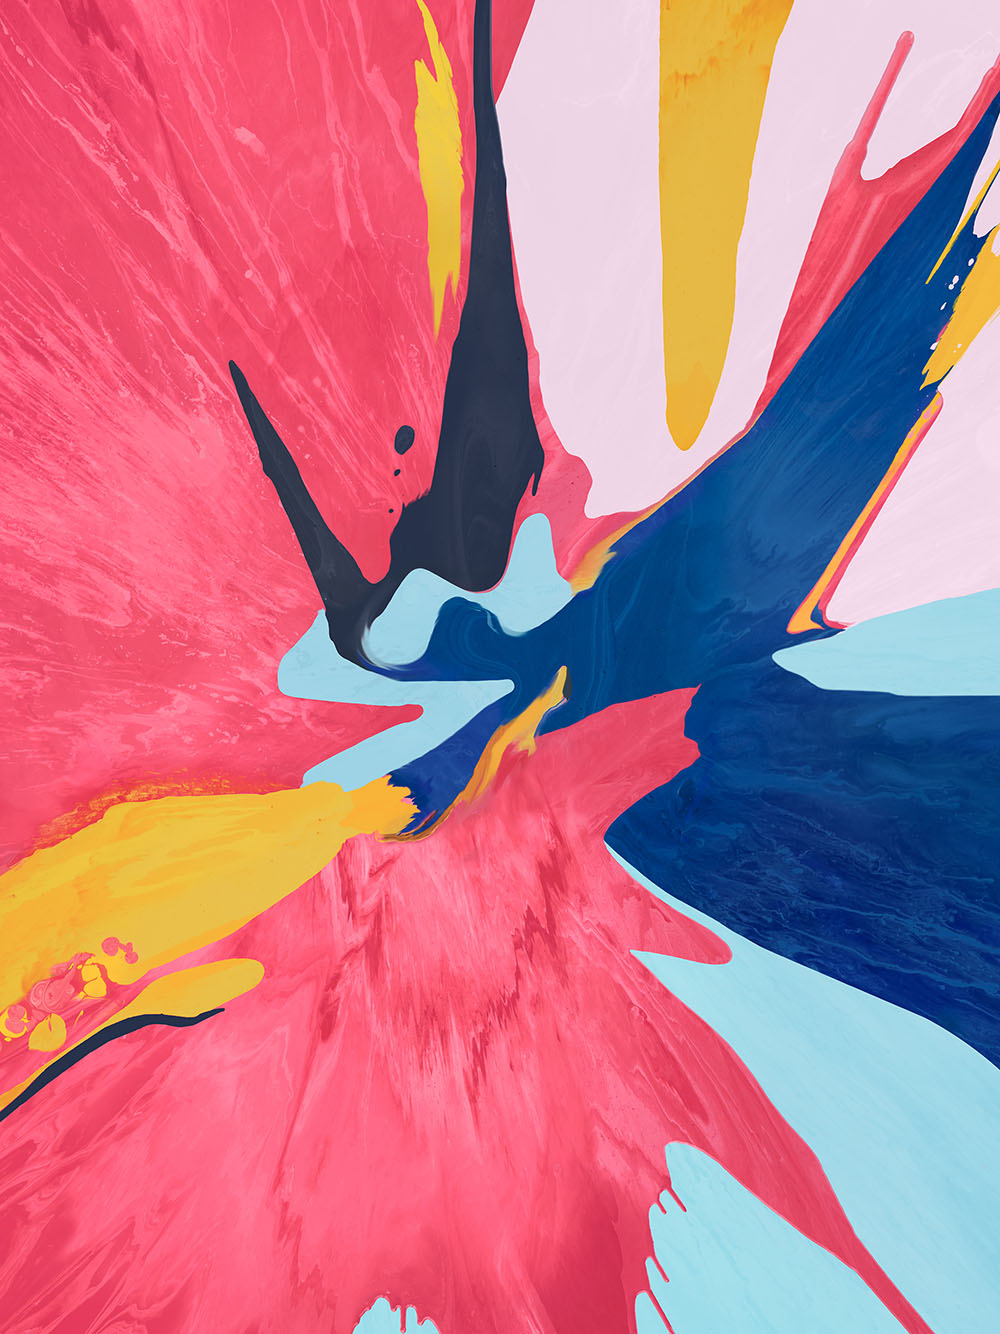
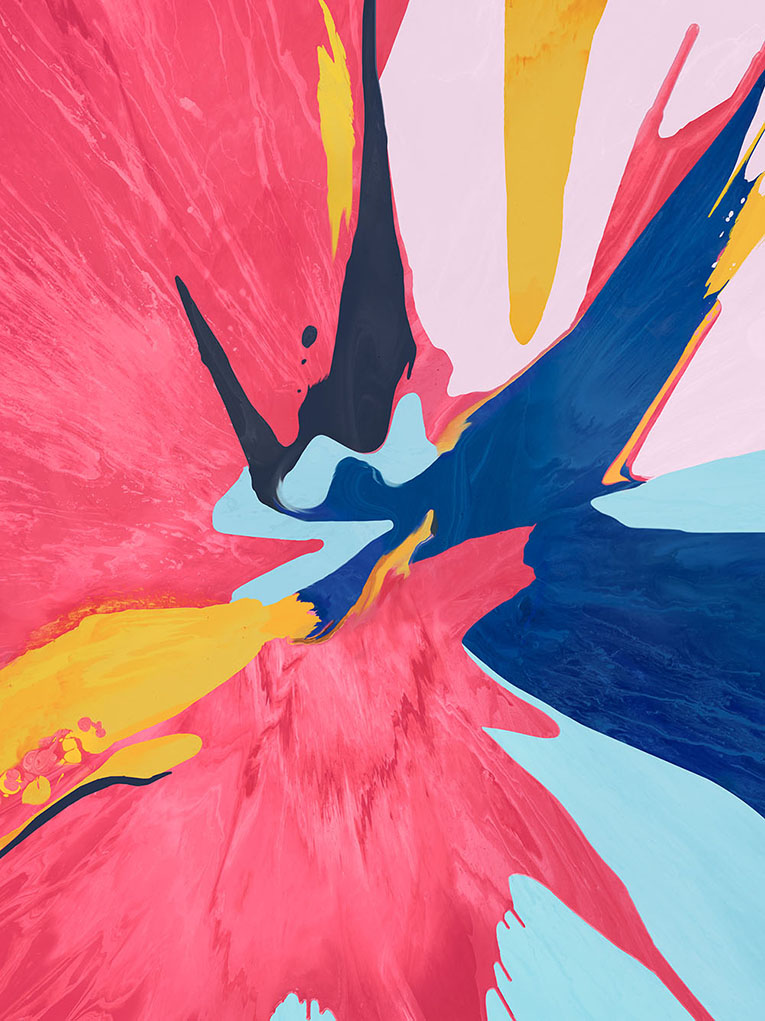
Slider image blur fade in

Changed region(s): [[0.9621, 0.1214, 1.0, 0.1822], [0.932, 0.2733, 0.9621, 0.3036]]

diff --git a/css/bulma.css b/css/bulma.css
@@ -22,7 +22,7 @@
 
 #ipad .ipad-slider {
   position: absolute;
-  background: white;
+  background: black;
   width: 92%;
   height: 93%;
   top: 3%;
@@ -37,16 +37,20 @@
     top: 0px;
     bottom: 0px;
     border-radius: 12px;
-    overflow: hidden; }
+    overflow: hidden;
[1 lines of base64/hex data omitted]
   #ipad .ipad-slider .slide-1 {
-    background-image: url(../images/slide-1.jpg);
-    background-size: cover; }
+    position: relative;
+    width: 100%;
+    object-fit: cover; }
   #ipad .ipad-slider .slide-2 {
-    background-image: url(../images/slide-2.jpg);
-    background-size: cover; }
+    position: relative;
+    width: 100%;
+    object-fit: cover; }
   #ipad .ipad-slider .slide-3 {
-    background-image: url(../images/slide-3.jpg);
-    background-size: cover; }
+    position: relative;
+    width: 100%;
+    object-fit: cover; }
 
 #ipad .ipad-shadow {
   width: 100%;
@@ -95,6 +99,8 @@
   .slider .slider-arrow.right {
     right: 0px;
     margin-right: -50px; }
+  .slider .slider-arrow:active {
+    transform: scale(0.7); }
 
 .slider .slider-dots {
   list-style: none;
@@ -110,6 +116,7 @@
     width: 6px;
     height: 6px;
     opacity: 0.45;
+    border: 0px;
     cursor: pointer;
     text-align: center;
     background: black;
@@ -123,6 +130,8 @@
       opacity: 0.25; }
     .slider .slider-dots button:focus {
       outline: none; }
+    .slider .slider-dots button:active {
+      opacity: 0; }
 
 .is-prehidden {
   opacity: 0; }
@@ -261,7 +270,32 @@
     opacity: 0; }
   to {
     transform: scaleX(1.1);
-    opacity: 0.7; } }
+    opacity: 1; } }
+
+.image-fade-in {
+  -webkit-transition: all 300ms linear;
+  -moz-transition: all 300ms linear;
+  -ms-transition: all 300ms linear;
+  -o-transition: all 300ms linear;
+  transition: all 300ms linear;
+  opacity: 0;
+  filter: blur(25px); }
+  .image-fade-in.ready {
+    animation-timing-function: linear;
+    animation-fill-mode: forwards;
+    animation-iteration-count: 1;
+    animation-direction: normal;
+    animation-name: image_fade_in;
+    animation-duration: 800ms;
+    animation-delay: 700ms; }
+
+@keyframes image_fade_in {
+  from {
+    filter: blur(25px);
+    opacity: 0; }
+  to {
+    filter: blur(0px);
+    opacity: 1; } }
 
 @keyframes spinAround {
   from {
@@ -4305,6 +4339,9 @@ a.list-item {
   z-index: 30; }
   .navbar.is-absolute {
     position: absolute;
+    width: 100%; }
+  .navbar.is-fixed {
+    position: fixed;
     width: 100%; }
   .navbar.is-white {
     background-color: white;

diff --git a/index.html b/index.html
@@ -55,9 +55,9 @@
                   <div class="curved-screen">
                     <div class="glide__track" data-glide-el="track">
                       <ul class="glide__slides">
-                        <li class="glide__slide slide-1 is-prehidden basic-fadein slow"></li>
-                        <li class="glide__slide slide-2"></li>
-                        <li class="glide__slide slide-3"></li>
+                        <img src="images/slide-1.jpg" class="glide__slide slide-1 image-fade-in">
+                        <img src="images/slide-2.jpg" class="glide__slide slide-2">
+                        <img src="images/slide-3.jpg" class="glide__slide slide-3">
                       </ul>
                     </div>
                   </div>
@@ -81,6 +81,19 @@
     </div>
   </section>
 
+  <section class="hero is-fullheight">
+    <div class="section-2"></div>
+      <div class="hero-body">
+      </div>
+    </div>
+  </section>
+
+  <section class="hero is-fullheight">
+    <div class="section-2"></div>
+      <div class="hero-body">
+      </div>
+    </div>
+  </section>
 
 </body>
 
@@ -88,15 +101,31 @@
 <script>
 
   var glide = new Glide('.glide', {
-    autoplay: 5000,
-    animationDuration: 400,
-    rewindDuration: 600,
+    autoplay: 7000,
+    animationDuration: 300,
+    rewindDuration: 700,
     animationTimingFunc: "cubic-bezier(.67,.49,.68,1)",
     hoverpause: true,
     gap: 0,
   });
 
   glide.mount();
+
+  var img = document.querySelector('.image-fade-in');
+  var loader = document.querySelector('.loading-dots');
+
+  function loaded() {
+    img.classList.add('ready');
+    loader.setAttribute('style', 'opacity: 0');
+  }
+
+  if (img.complete) {
+    loaded();
+  } else {
+    img.addEventListener('load', loaded);
+    img.addEventListener('error', function () {
+    });
+  }
 
 </script>
 

diff --git a/scss/custom/_custom-styles.scss b/scss/custom/_custom-styles.scss
@@ -25,7 +25,7 @@
   }
   .ipad-slider {
     position: absolute;
-    background: white;
+    background: black;
     width: 92%;
     height: 93%;
     top: 3%;
@@ -41,10 +41,12 @@
       bottom:0px;
       border-radius: 12px;
       overflow: hidden;
[1 lines of base64/hex data omitted]
+
     }
-    .slide-1 {background-image: url(../images/slide-1.jpg); background-size: cover;}
-    .slide-2 {background-image: url(../images/slide-2.jpg); background-size: cover;}
-    .slide-3 {background-image: url(../images/slide-3.jpg); background-size: cover;}
+    .slide-1 {position: relative; width:100%; object-fit: cover;}
+    .slide-2 {position: relative; width:100%; object-fit: cover;}
+    .slide-3 {position: relative; width:100%; object-fit: cover;}
   }
   .ipad-shadow {
     width:100%;
@@ -90,6 +92,8 @@
     }
     &.left {left:0px; margin-left: -50px}
     &.right {right:0px; margin-right: -50px}
+    &:active {transform:scale(0.7);}
+
   }
   .slider-dots {
     list-style: none;
@@ -105,6 +109,7 @@
       width: 6px;
       height: 6px;
       opacity: 0.45;
+      border:0px;
       cursor: pointer;
       text-align: center;
       background: black;
@@ -117,6 +122,7 @@
       }
       &:hover {opacity: 0.25;}
       &:focus {outline: none;}
+      &:active {opacity: 0;}
     }
   }
 }

diff --git a/scss/animation/_general.scss b/scss/animation/_general.scss
@@ -75,8 +75,33 @@
 
 @keyframes shadow_transform {
   from {transform: scaleX(0.2);  opacity: 0;}
-  to   {transform: scaleX(1.1);  opacity: 0.7;}
+  to   {transform: scaleX(1.1);  opacity: 1;}
 }
 
+// Image Fade in
+
+.image-fade-in {
+    -webkit-transition: all 300ms linear;
+    -moz-transition: all 300ms linear;
+    -ms-transition: all 300ms linear;
+    -o-transition: all 300ms linear;
+    transition: all 300ms linear;
+    opacity: 0;
+    filter:blur(25px);
+    &.ready {
+      animation-timing-function: linear;
+      animation-fill-mode: forwards;
+      animation-iteration-count: 1;
+      animation-direction: normal;
+      animation-name: image_fade_in;
+      animation-duration: 800ms;
+      animation-delay: 700ms;
+    }
+}
+
+@keyframes image_fade_in {
+  from {filter:blur(25px);  opacity: 0;}
+  to   {filter:blur(0px);  opacity: 1;}
+}
 
 // Background Animations

diff --git a/scss/components/_navbar.scss b/scss/components/_navbar.scss
@@ -64,6 +64,11 @@ $navbar-breakpoint: $desktop !default;
     width: 100%;
   }
 
+  &.is-fixed {
+    position: fixed;
+    width: 100%;
+  }
+
   @each $name, $pair in $colors {
     $color: nth($pair, 1);
     $color-invert: nth($pair, 2);
